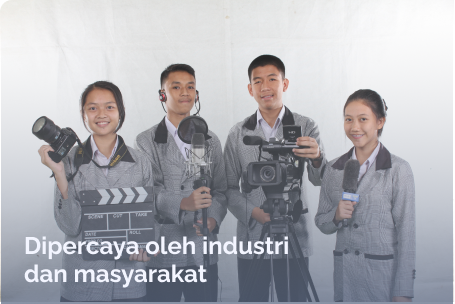
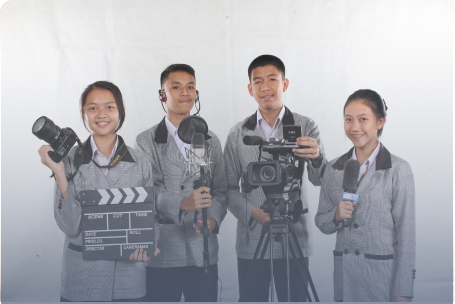
Minor changes

Changed region(s): [[0.0308, 0.7697, 0.6462, 0.9474]]

diff --git a/webWikrama/webWikrama/src/components/Hero.vue b/webWikrama/webWikrama/src/components/Hero.vue
@@ -2,18 +2,18 @@
     <div class="container">
       <div class="row">
         <div class="col text-center">
-          <h3>Best Of The Best</h3>
+          <h3>Best of the best</h3>
           <p>Sebuah lembaga pendidikan yang didedikasikan untuk memaksimalkan potensi anak bangsa.</p>
         </div>
       </div>
-    </div>
-    <div class="hero-content">
-      <div class="hero-box hero-box-1">1</div>
-      <div class="hero-box hero-box-2">2</div>
-      <div class="hero-box hero-box-3">3</div>
-      <div class="hero-box hero-box-4">4</div>
-      <div class="hero-box hero-box-5">5</div>
-      <div class="hero-box hero-box-6">6</div>
+      <div class="hero-box-container">
+        <div class="hero-box hero-box-1"><p>Dipercaya oleh industri dan masyarakat</p></div>
+        <div class="hero-box hero-box-2"></div>
+        <div class="hero-box hero-box-3"><p>Sekolah Ramah Anak</p></div>
+        <div class="hero-box hero-box-4"><p>Ekstrakulikuler Penunjang Bakat Pelajar</p></div>
+        <div class="hero-box hero-box-5"><p>Melahirkan Anak Bangsa Berprestasi</p></div>
+        <div class="hero-box hero-box-6"><p>Mempersiapkan Pelajar Untuk Masa Depan</p></div>
+      </div>
     </div>
   </template>
   
@@ -24,66 +24,92 @@
   </script>
   
   <style scoped>
-.hero-content {
-  position: relative;
-  width: 600px; /* Adjust the width of the container */
-  height: 600px; /* Adjust the height of the container */
-}
-
-.hero-box {
-  position: absolute;
-  font-size: 40px;
+ .hero-box {
   display: flex;
-  align-items: center;
-  justify-content: center;
+  align-items: flex-end; 
+  justify-content: flex-start; 
+  padding: 10px; 
 }
 
-/* Custom styles for each box */
+.hero-box p {
+  font-size: 18px;
+  color: white;
+  font-weight: 600;
+  margin: 3px; 
+}
+
+.col.text-center h3 {
+  /* margin-top: px; */
+  color: rgba(33, 56, 102, 1);
+  font-weight: 600;
+  font-size: 32px;
+}
+
+.col.text-center p {
+  font-size: 18px;
+  margin-left: auto; 
+  margin-right: auto; 
+  width: 500px;
+}
+.hero-box-container {
+  display: grid;
+  grid-template-columns: 35% 30% 5% auto;
+  grid-template-rows: 186px 50px 120px;
+  margin-top: 28px;
+  gap: 8px;
+  overflow: hidden;
+}
+
 .hero-box-1 {
-  background-color: #70e9c9;
-  width: 300px;
-  height: 200px;
-  top: 0;
-  left: 0;
+  background-image: 
+    linear-gradient(to top,rgba(68, 78, 97, 0.60), rgba(86, 98, 121, 0.40), rgba(145, 153, 168, 0.20), rgba(217, 217, 217, 0)), /* Gradient layer - starts dark from bottom to transparent */
+    url(../img/headerCard-1.png);
+  grid-row: 1 / 3;
+  background-size: cover;
+  background-position: 0px;
 }
 
 .hero-box-2 {
-  background-color: #63dbbb;
-  width: 200px;
-  height: 400px;
-  top: 0;
-  right: 0;
+  background-image: 
+    linear-gradient(to top,rgba(68, 78, 97, 0.60), rgba(86, 98, 121, 0.40), rgba(145, 153, 168, 0.20), rgba(217, 217, 217, 0)), /* Gradient layer - starts dark from bottom to transparent */
+    url(../img/headerCard-2.png);
+  grid-column: 2 / 4;
+  background-size: cover;
+  background-position: 0px -60px;
 }
 
 .hero-box-3 {
-  background-color: #51c9a9;
-  width: 200px;
-  height: 200px;
-  top: 200px;
-  left: 0;
+  background-image: 
+    linear-gradient(to top,rgba(68, 78, 97, 0.60), rgba(86, 98, 121, 0.40), rgba(145, 153, 168, 0.20), rgba(217, 217, 217, 0)), /* Gradient layer - starts dark from bottom to transparent */
+    url(../img/headerCard-3.png);
+  background-size: cover;
+  background-position: 0px -60px;
 }
 
 .hero-box-4 {
-  background-color: #3dafa0;
-  width: 100px;
-  height: 100px;
-  top: 400px;
-  left: 200px;
+  background-image: 
+    linear-gradient(to top,rgba(68, 78, 97, 0.60), rgba(86, 98, 121, 0.40), rgba(145, 153, 168, 0.20), rgba(217, 217, 217, 0)), /* Gradient layer - starts dark from bottom to transparent */
+    url(../img/headerCard-4.png);
+  grid-row: 3;
+  background-size: cover;
 }
 
 .hero-box-5 {
-  background-color: #309d96;
-  width: 100px;
-  height: 100px;
-  top: 400px;
-  left: 300px;
+  background-image: 
+    linear-gradient(to top,rgba(68, 78, 97, 0.60), rgba(86, 98, 121, 0.40), rgba(145, 153, 168, 0.20), rgba(217, 217, 217, 0)), /* Gradient layer - starts dark from bottom to transparent */
+    url(../img/headerCard-5.png);
+  grid-row: 2 / 4;
+  background-size: cover;
+  background-position: 0px -20px;
 }
 
 .hero-box-6 {
-  background-color: #1e897a;
-  width: 200px;
-  height: 100px;
-  top: 500px;
-  left: 0;
+  background-image: 
+    linear-gradient(to top,rgba(68, 78, 97, 0.60), rgba(86, 98, 121, 0.40), rgba(145, 153, 168, 0.20), rgba(217, 217, 217, 0)), /* Gradient layer - starts dark from bottom to transparent */
+    url(../img/headerCard-6.png);
+  grid-row: 2 / 4;
+  grid-column: 3 / 5;
+  background-size: cover;
+  background-position: 0px -39px;
 }
 </style>
